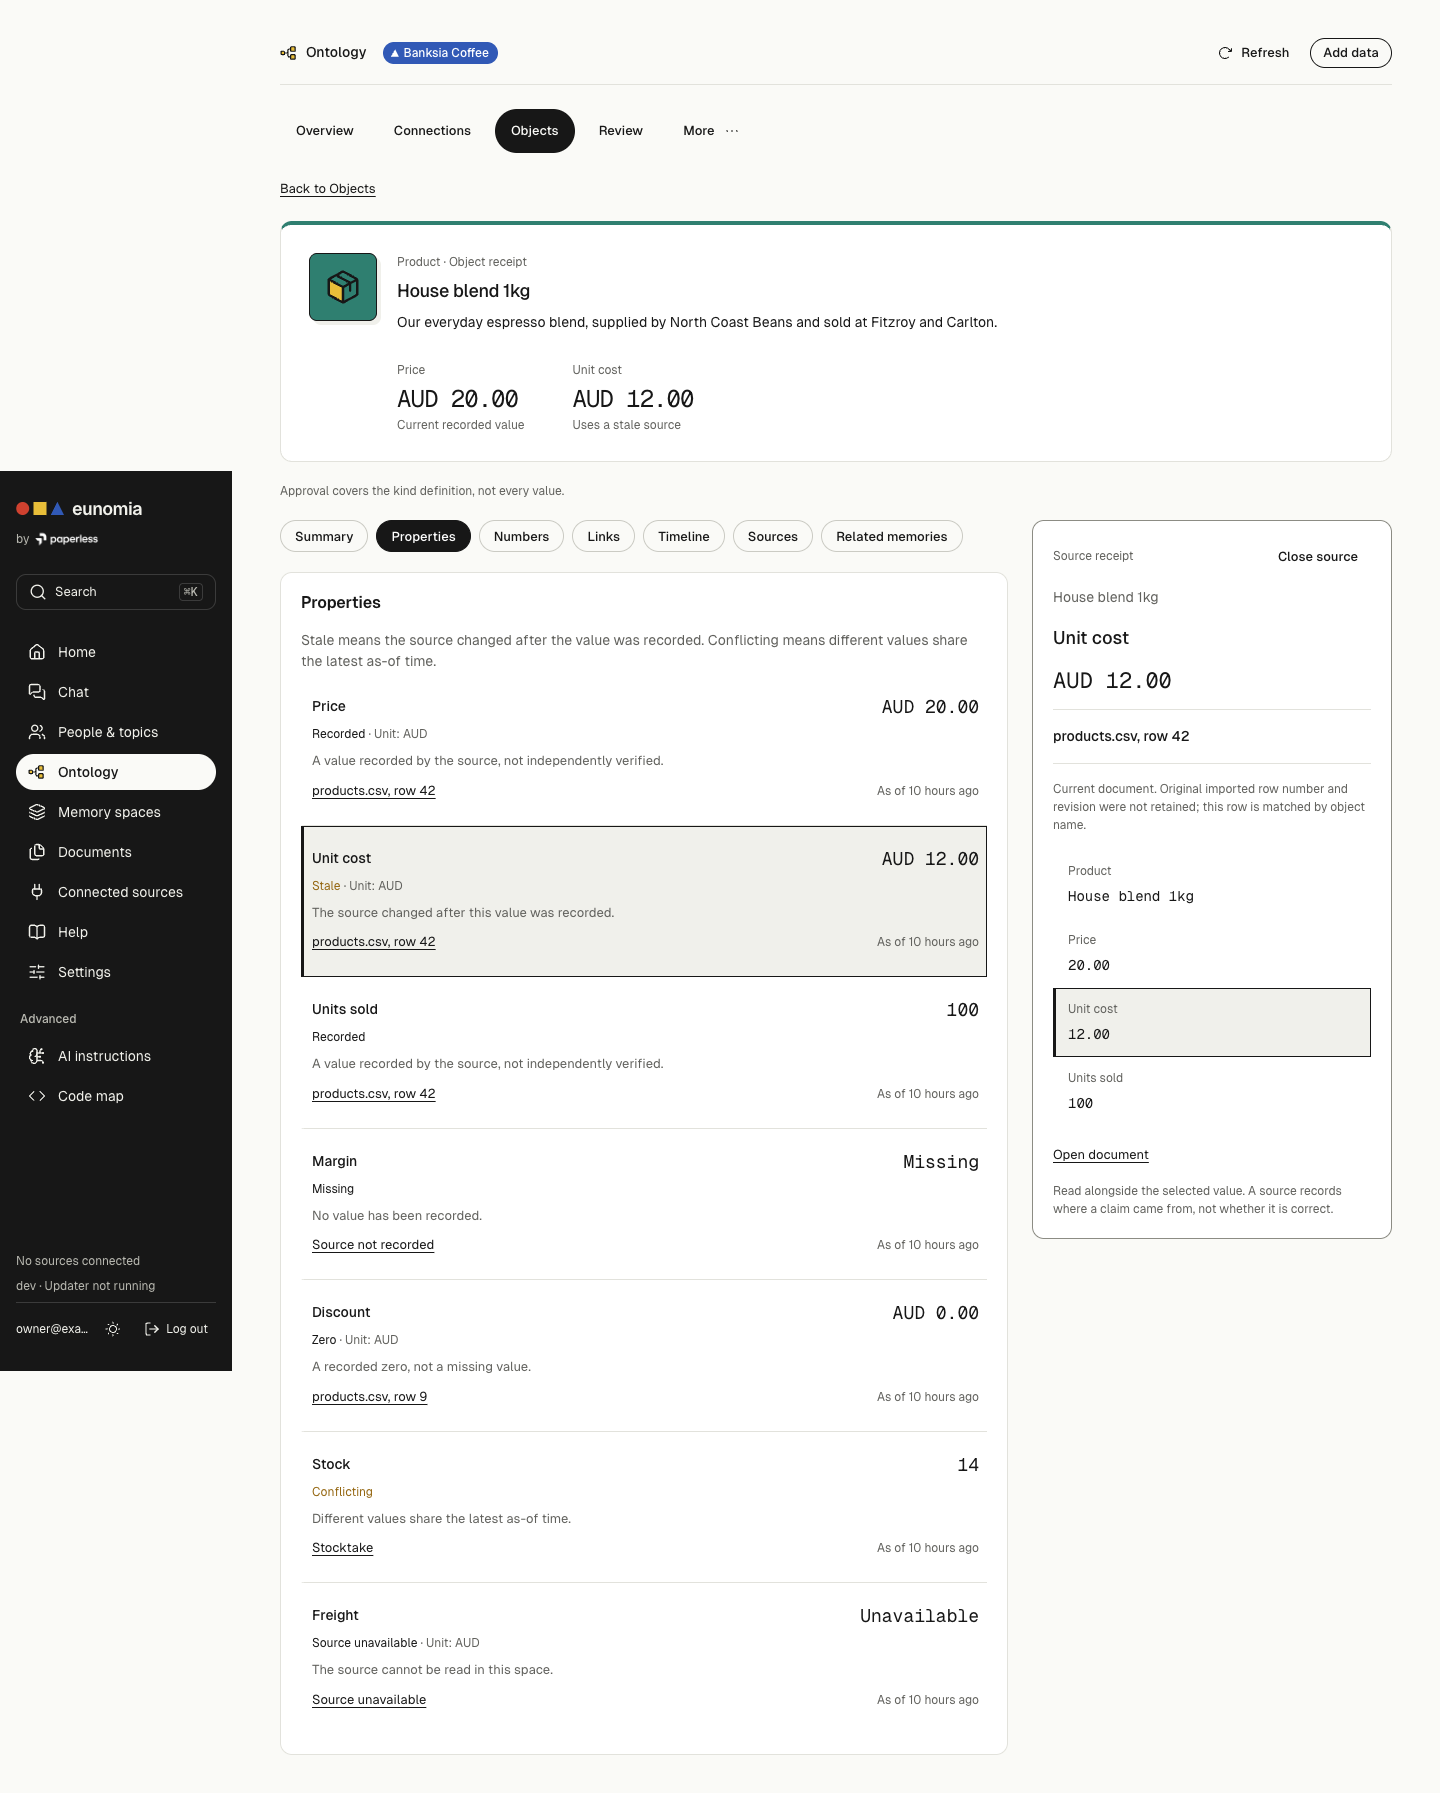
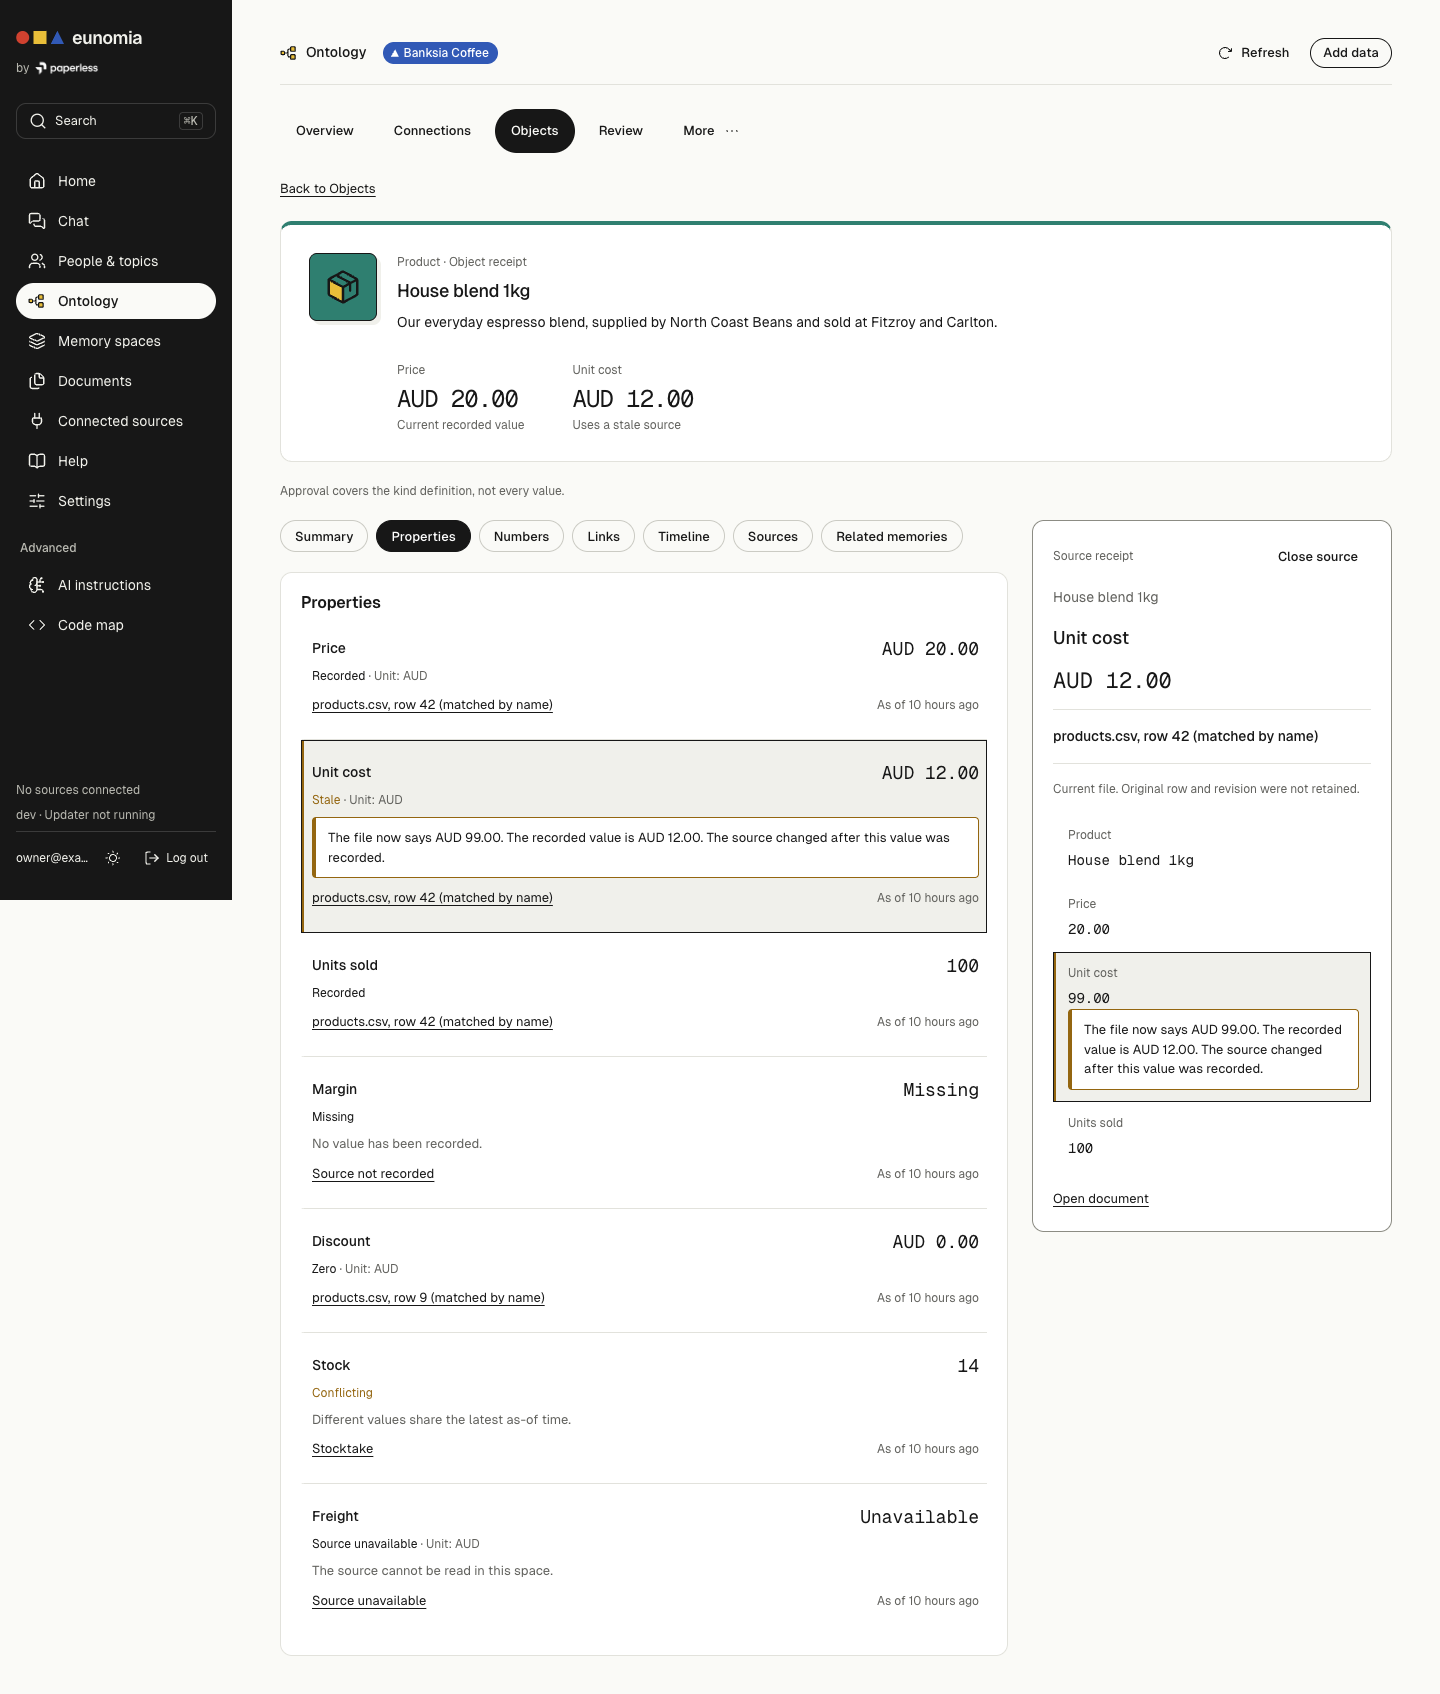
Finish honest source summaries and compact receipt layout

diff --git a/frontend/tests/ontology-receipts-visual.spec.ts b/frontend/tests/ontology-receipts-visual.spec.ts
@@ -2,13 +2,13 @@ import { test, expect } from "@playwright/test";
 import { mkdir, writeFile } from "node:fs/promises";
 import { mockReceipts } from "./fixtures/receipts";
 const output = process.env.ONTOLOGY_RECEIPT_SCREENSHOTS;
-const states = ["populated", "source", "mismatch", "mismatch-source", "duplicate", "record", "unavailable", "loading", "empty", "error", "denied", "missing", "links", "numbers", "activity", "subject", "historical", "paused", "objects", "zoom", "summary", "timeline", "sources", "memories"];
+const states = ["populated", "source", "mismatch", "mismatch-source", "compact-source", "duplicate", "record", "unavailable", "loading", "empty", "error", "denied", "missing", "links", "numbers", "activity", "subject", "historical", "paused", "objects", "zoom", "summary", "timeline", "sources", "memories"];
 for (const state of states) test(`receipt visual ${state}`, async ({ browser }) => {
   test.skip(!output, "Set ONTOLOGY_RECEIPT_SCREENSHOTS to capture paired evidence");
   test.setTimeout(90000);
   await mkdir(output!, { recursive: true });
   const pairs = [];
-  for (const width of [1440, 390]) for (const theme of ["light", "dark"]) {
+  for (const width of state === "compact-source" ? [1440] : [1440, 390]) for (const theme of ["light", "dark"]) {
     const context = await browser.newContext({ viewport: { width, height: width === 390 ? 844 : 900 }, locale: "en-AU", timezoneId: "Australia/Melbourne", reducedMotion: "reduce", hasTouch: width === 390 });
     const page = await context.newPage();
     await page.addInitScript(theme => localStorage.setItem("eunomia-theme", theme), theme);
@@ -18,7 +18,11 @@ for (const state of states) test(`receipt visual ${state}`, async ({ browser }) 
     if (state === "empty") { api.profile.properties = []; api.profile.sources = []; api.profile.summary = ""; }
     if (state === "historical") await page.route("**/api/vaults/business/ontology/activity?*", route => route.fulfill({ json: { events: [{ seq: 1, at: "2026-11-10T03:32:00Z", actor: "owner", actor_name: "Alex", actor_type: "user", action: "approved", definition_type: "property", kind: "product", name: "unit_cost", target: "property:cost", revision: 99, reason: "Cost definition reviewed" }], next: 1, more: false } }));
     const activity = ["activity", "subject", "historical", "paused"].includes(state);
-    await page.goto(`${activity ? "/ontology/activity" : state === "objects" ? "/ontology/objects" : "/ontology/objects/house"}?space=business&section=${state === "links" ? "Links" : state === "numbers" ? "Numbers" : state === "summary" ? "Summary" : state === "timeline" ? "Timeline" : state === "sources" ? "Sources" : state === "memories" ? "Related memories" : "Properties"}`);
+    await page.goto(`${activity ? "/ontology/activity" : ["objects", "compact-source"].includes(state) ? "/ontology/objects" : "/ontology/objects/house"}?space=business&section=${state === "links" ? "Links" : state === "numbers" ? "Numbers" : state === "summary" ? "Summary" : state === "timeline" ? "Timeline" : state === "sources" ? "Sources" : state === "memories" ? "Related memories" : "Properties"}`);
+    if (state === "compact-source") {
+      const url = new URL(page.url()); url.searchParams.set("kind", "product"); url.searchParams.set("page", "2"); url.searchParams.set("selected", "house");
+      await page.goto(url.pathname + url.search);
+    }
     if (state === "missing") await expect(page.getByRole("region", { name: "Object unavailable" })).toBeVisible();
     else if (["error", "denied"].includes(state)) await expect(page.locator("main").getByRole("alert").first()).toBeVisible({ timeout: 15000 });
     else if (state === "loading") await expect(page.getByRole("status").filter({ hasText: "Loading object receipt" })).toBeVisible();
@@ -28,7 +32,7 @@ for (const state of states) test(`receipt visual ${state}`, async ({ browser }) 
       if (["subject", "historical"].includes(state)) { await page.locator("main li").filter({ hasText: "Unit cost" }).getByRole("link").first().click(); await expect(page.getByRole("complementary", { name: "Activity subject" })).toBeVisible(); if (state === "historical") await expect(page.getByRole("complementary", { name: "Activity subject" })).toContainText("Historical version unavailable"); }
     } else if (state === "objects") await expect(page.getByRole("table")).toBeVisible();
     else await expect(page.getByRole("heading", { name: "House blend 1kg", exact: true })).toBeVisible();
-    const value = new Map([["source", "Unit cost"], ["mismatch-source", "Unit cost"], ["duplicate", "Discount"], ["record", "Stock"], ["unavailable", "Freight"]]).get(state);
+    const value = new Map([["source", "Unit cost"], ["compact-source", "Unit cost"], ["mismatch-source", "Unit cost"], ["duplicate", "Discount"], ["record", "Stock"], ["unavailable", "Freight"]]).get(state);
     if (value) { await page.getByRole("button", { name: `Inspect source for ${value}` }).click(); await expect(page.getByRole(width === 390 ? "dialog" : "complementary", { name: "Source inspector" })).toBeVisible(); }
     if (state === "zoom") await page.addStyleTag({ content: "html { font-size: 200% !important; }" });
     await page.evaluate(() => document.fonts.ready);

diff --git a/frontend/src/components/twin/ConnectionInspector.tsx b/frontend/src/components/twin/ConnectionInspector.tsx
@@ -6,6 +6,8 @@ import { formatted, objectHref } from "./ObjectProfile";
 import { humanLabel, relativeTime } from "./overview-format";
 import ReadState from "./ReadState";
 import styles from "./connections.module.css";
+import { sourceAvailable, sourceLabel, sourceMismatch } from "./receipt-model";
+import receiptStyles from "./receipts.module.css";
 import shared from "./overview.module.css";
 export default function ConnectionInspector({
   space,
@@ -51,6 +53,7 @@ export default function ConnectionInspector({
           <dl>
             {query.data.properties.map((p) => {
               const source = query.data.sources.find((s) => s.id === p.source);
+              const mismatch = sourceMismatch(p, source);
               return (
                 <div className={styles.value} key={p.name}>
                   <dt>{humanLabel(p.name)}</dt>
@@ -72,28 +75,12 @@ export default function ConnectionInspector({
                       ? ` · ${relativeTime(p.as_of, now)}`
                       : " · Date not recorded"}
                     <br />
-                    {p.source
-                      ? source?.document
-                        ? ""
-                        : p.source_label
-                      : "Source not recorded"}
-                    {source?.document && (
-                      <span>
-                        {" "}
-                        {source.document.filename}
-                        {source.document.row
-                          ? ` · row ${source.document.row.line}`
-                          : ` · ${source.document.note}`}
-                      </span>
+                    {p.source ? p.source_state === "unavailable" ? "Source unavailable" : sourceLabel(source) : "Source not recorded"}
+                    {sourceAvailable(source) && source?.record && (
+                      <span> · {source.record.external_id}</span>
                     )}
-                    {source?.record && (
-                      <span>
-                        {" "}
-                        · {source.record.title || source.record.source} ·{" "}
-                        {source.record.external_id}
-                      </span>
-                    )}
-                    {p.state === "stale" && (
+                    {mismatch && <p role="note" className={receiptStyles.mismatch}>{mismatch}</p>}
+                    {p.state === "stale" && !mismatch && (
                       <p>The source changed after this value was recorded.</p>
                     )}
                     {p.state === "missing" && (

diff --git a/frontend/src/components/twin/SourceInspector.tsx b/frontend/src/components/twin/SourceInspector.tsx
@@ -34,7 +34,7 @@ export default function SourceInspector({ data, name, space, close, restoreFocus
     {property && <p className={styles.inspectedValue}>{property.state === "unavailable" ? "Unavailable" : formatted(property.value, property)}</p>}
     <div className={styles.sourceTitle}>{allowed ? sourceLabel(source) : "Source unavailable"}</div>
     {!allowed ? <p role="status">This source is unavailable in this space. The document may have been deleted, removed from this space or access may be restricted.</p> : source?.document ? <>
-      <p className={styles.dim}>Current file, matched by name. Original row and revision were not retained.</p>
+      <p className={styles.dim}>Current file. Original row and revision were not retained.</p>
       {source.document.row ? <dl className={styles.cells}>{Object.entries(source.document.row.cells).map(([column, value]) => <div key={column} data-highlight={sourceColumn(column) === name} data-mismatch={sourceColumn(column) === name && !!mismatch}><dt>{humanLabel(column)}</dt><dd>{value || "Missing"}</dd>{sourceColumn(column) === name && mismatch && <dd className={styles.mismatch} role="note">{mismatch}</dd>}</div>)}</dl> : <p role="status">{rowUnavailable}</p>}
       <Link className="link" href={`/documents?id=${encodeURIComponent(source.document.id)}&space=${encodeURIComponent(space)}`}>Open document</Link>
     </> : source?.record ? <><p>{source.record.source} · Exact source record</p><pre className={styles.payload}>{JSON.stringify(source.record.payload, null, 2)}</pre></> : <p>The source record was not retained.</p>}

diff --git a/frontend/tests/ontology-receipts-connections.spec.ts b/frontend/tests/ontology-receipts-connections.spec.ts
@@ -1,0 +1,18 @@
+import { mkdir } from "node:fs/promises";
+import {test,expect} from "@playwright/test";
+import {mockConnections} from "./fixtures/connections";
+import {receiptFixture} from "./fixtures/receipts";
+for (const width of [1440, 390]) for (const theme of ["light", "dark"]) test(`Connections source summaries disclose name matches and disagreements at ${width} ${theme}`, async ({page})=>{
+  await page.setViewportSize({width,height:width===390?844:900});
+  await page.addInitScript(theme=>localStorage.setItem("eunomia-theme",theme),theme);
+  await mockConnections(page);
+  const data=receiptFixture();
+  data.sources[0].document!.row!.cells.unit_cost="99.00";
+  await page.route("**/api/vaults/business/ontology/objects/*",r=>r.fulfill({json:data}));
+  await page.goto("/ontology/connections?space=business&focus=house&selected=house");
+  const inspector=page.getByLabel("Selected object",{exact:true});
+  await expect(inspector).toContainText("products.csv, row 42 (matched by name)");
+  await expect(inspector).toContainText("The file now says AUD 99.00. The recorded value is AUD 12.00.");
+  const output=process.env.ONTOLOGY_RECEIPT_SCREENSHOTS;
+  if (output) { await mkdir(output,{recursive:true}); await page.screenshot({path:`${output}/connections-receipt-${width}-${theme}.png`,fullPage:true}); }
+});

diff --git a/frontend/tests/ontology-receipts-review.spec.ts b/frontend/tests/ontology-receipts-review.spec.ts
@@ -115,6 +115,9 @@ test("compact source keeps page two and pagination reachable", async ({ page }) 
   await expect(page).toHaveURL(/page=2/);
   await expect(page.getByRole("navigation",{name:"Object pages"})).toBeVisible();
   await expect(page.getByRole("button",{name:"Previous",exact:true})).toBeEnabled();
+  expect(await page.evaluate(() => document.documentElement.scrollWidth)).toBeLessThanOrEqual(1280);
+  const bounds = await page.getByLabel("Object inspector", {exact:true}).evaluate(el => ({outer:el.getBoundingClientRect().right, source:el.querySelector('[aria-label="Source inspector"]')!.getBoundingClientRect().right}));
+  expect(bounds.source).toBeLessThanOrEqual(bounds.outer);
 });
 test("import activity opens the imported kind Objects", async ({ page }) => {
   await mockReceipts(page);

diff --git a/frontend/src/components/twin/receipt-model.ts b/frontend/src/components/twin/receipt-model.ts
@@ -29,7 +29,7 @@ export function safeReturn(value: string | null, space: string) {
   return url.searchParams.get("space") === space ? url.pathname + url.search : null;
 }
 
-export const rowUnavailable = "No unique current row. Several rows may share this name, or the row may have been removed or the document replaced. The API cannot distinguish these cases.";
+export const rowUnavailable = "No unique current row. Several rows may share this name, or the row may have been removed or the document replaced.";
 export const sourceColumn = (column: string) => column.toLowerCase().replaceAll(" ", "_");
 
 function currentValue(cell: string, property: PropertyReceipt) {

diff --git a/frontend/src/components/twin/ObjectProfile.tsx b/frontend/src/components/twin/ObjectProfile.tsx
@@ -98,7 +98,7 @@ function ProfileDetails({
   if (!query.data || query.isFetching) return <LoadingSkeleton label="Loading object receipt" layout="rows" rows={4} />;
   const data = query.data;
   return (
-    <div className={styles.profile}>
+    <div className={styles.profile} data-compact={compact}>
       {!compact && (
         <Link
           className="link self-start"

diff --git a/frontend/src/components/twin/receipts.module.css b/frontend/src/components/twin/receipts.module.css
@@ -78,3 +78,7 @@
   .cells > div { padding: 8px; }
   .activitySubject { padding: 16px; gap: 12px; }
 }
+
+.cells .mismatch { font-family: var(--font-sans); }
+
+.profile[data-compact="true"] .stack[data-open="true"] { grid-template-columns: minmax(0, 1fr); }

diff --git a/docs/ontology-receipts-pr-c.md b/docs/ontology-receipts-pr-c.md
@@ -36,9 +36,9 @@ Visual review also found that clipped activity rows contributed invisible page o
 
 ![Unavailable historical definition](assets/ontology-receipts/activity-history-dark.png)
 
-Final local checks: lint with all 70 unit tests, TypeScript and production build passed. The final production build passed 41 receipt behaviour and visual tests. The broader mocked regression run passed 165 tests with 96 optional pre-existing figure cases skipped. A subsequent complete state sweep and receipt capture run passed 74 tests. Both real-backend specs are updated for CI; they were not run against a local backend.
+Before the review fixes, local checks: lint with all 70 unit tests, TypeScript and production build passed. The final production build passed 41 receipt behaviour and visual tests. The broader mocked regression run passed 165 tests with 96 optional pre-existing figure cases skipped. A subsequent complete state sweep and receipt capture run passed 74 tests. Both real-backend specs are updated for CI; they were not run against a local backend.
 
-The branch was updated after PR #221 merged into main. The lint list retains both receipt and Connections unit tests. The combined frontend passes all 70 unit tests, typecheck and production build. Connections source and navigation were taken unchanged from main.
+The branch was updated after PR #221 merged into main. The lint list retains both receipt and Connections unit tests. The combined frontend passes all 70 unit tests, typecheck and production build. At that stage, Connections source and navigation were taken unchanged from main.
 
 After updating to current main, 111 production-browser tests passed across receipt behaviour and visual states, Overview, Connections UI and Connections access. The paired captures were refreshed against that combined build.
 
@@ -54,3 +54,6 @@ Compact source inspection preserves page and pagination. Import activity navigat
 [Issue #231](https://github.com/Cashara-io/eunomia/issues/231) records the remaining backend work. The profile eagerly sends rows and payloads, and `backend/src/documents/mod.rs:465` reads the entire CSV object to return one row. Store row numbers and document revisions during import, then expose a bounded endpoint returning one referenced row on demand. These frontend changes cannot prove historical provenance.
 
 New unit and browser regressions failed before their fixes. Production validation passed typecheck, lint, all 72 unit tests and the build, plus 97 mocked receipt and Connections tests. Connections tests retain their original assertions. The mobile layout regression was also run against the old stylesheet and failed in both themes before passing with the fix. Red and green logs and refreshed screenshots are in `/private/tmp/ontology-design/after/pr-c/`.
+
+
+The final follow-up also applies honest row labels and mismatch notices to the Connections object summary. The compact source panel stacks inside the narrow table inspector. Its bounds regression failed against the previous build before passing with the fix. Final local results: 74 unit tests, 72 tests in the unchanged lint list, typecheck and production build passed. The final production browser run passed 101 receipt and Connections tests. All 25 receipt screenshot cases passed, including compact source and current value mismatches. The earlier full route and visual sweep passed 78 cases.
